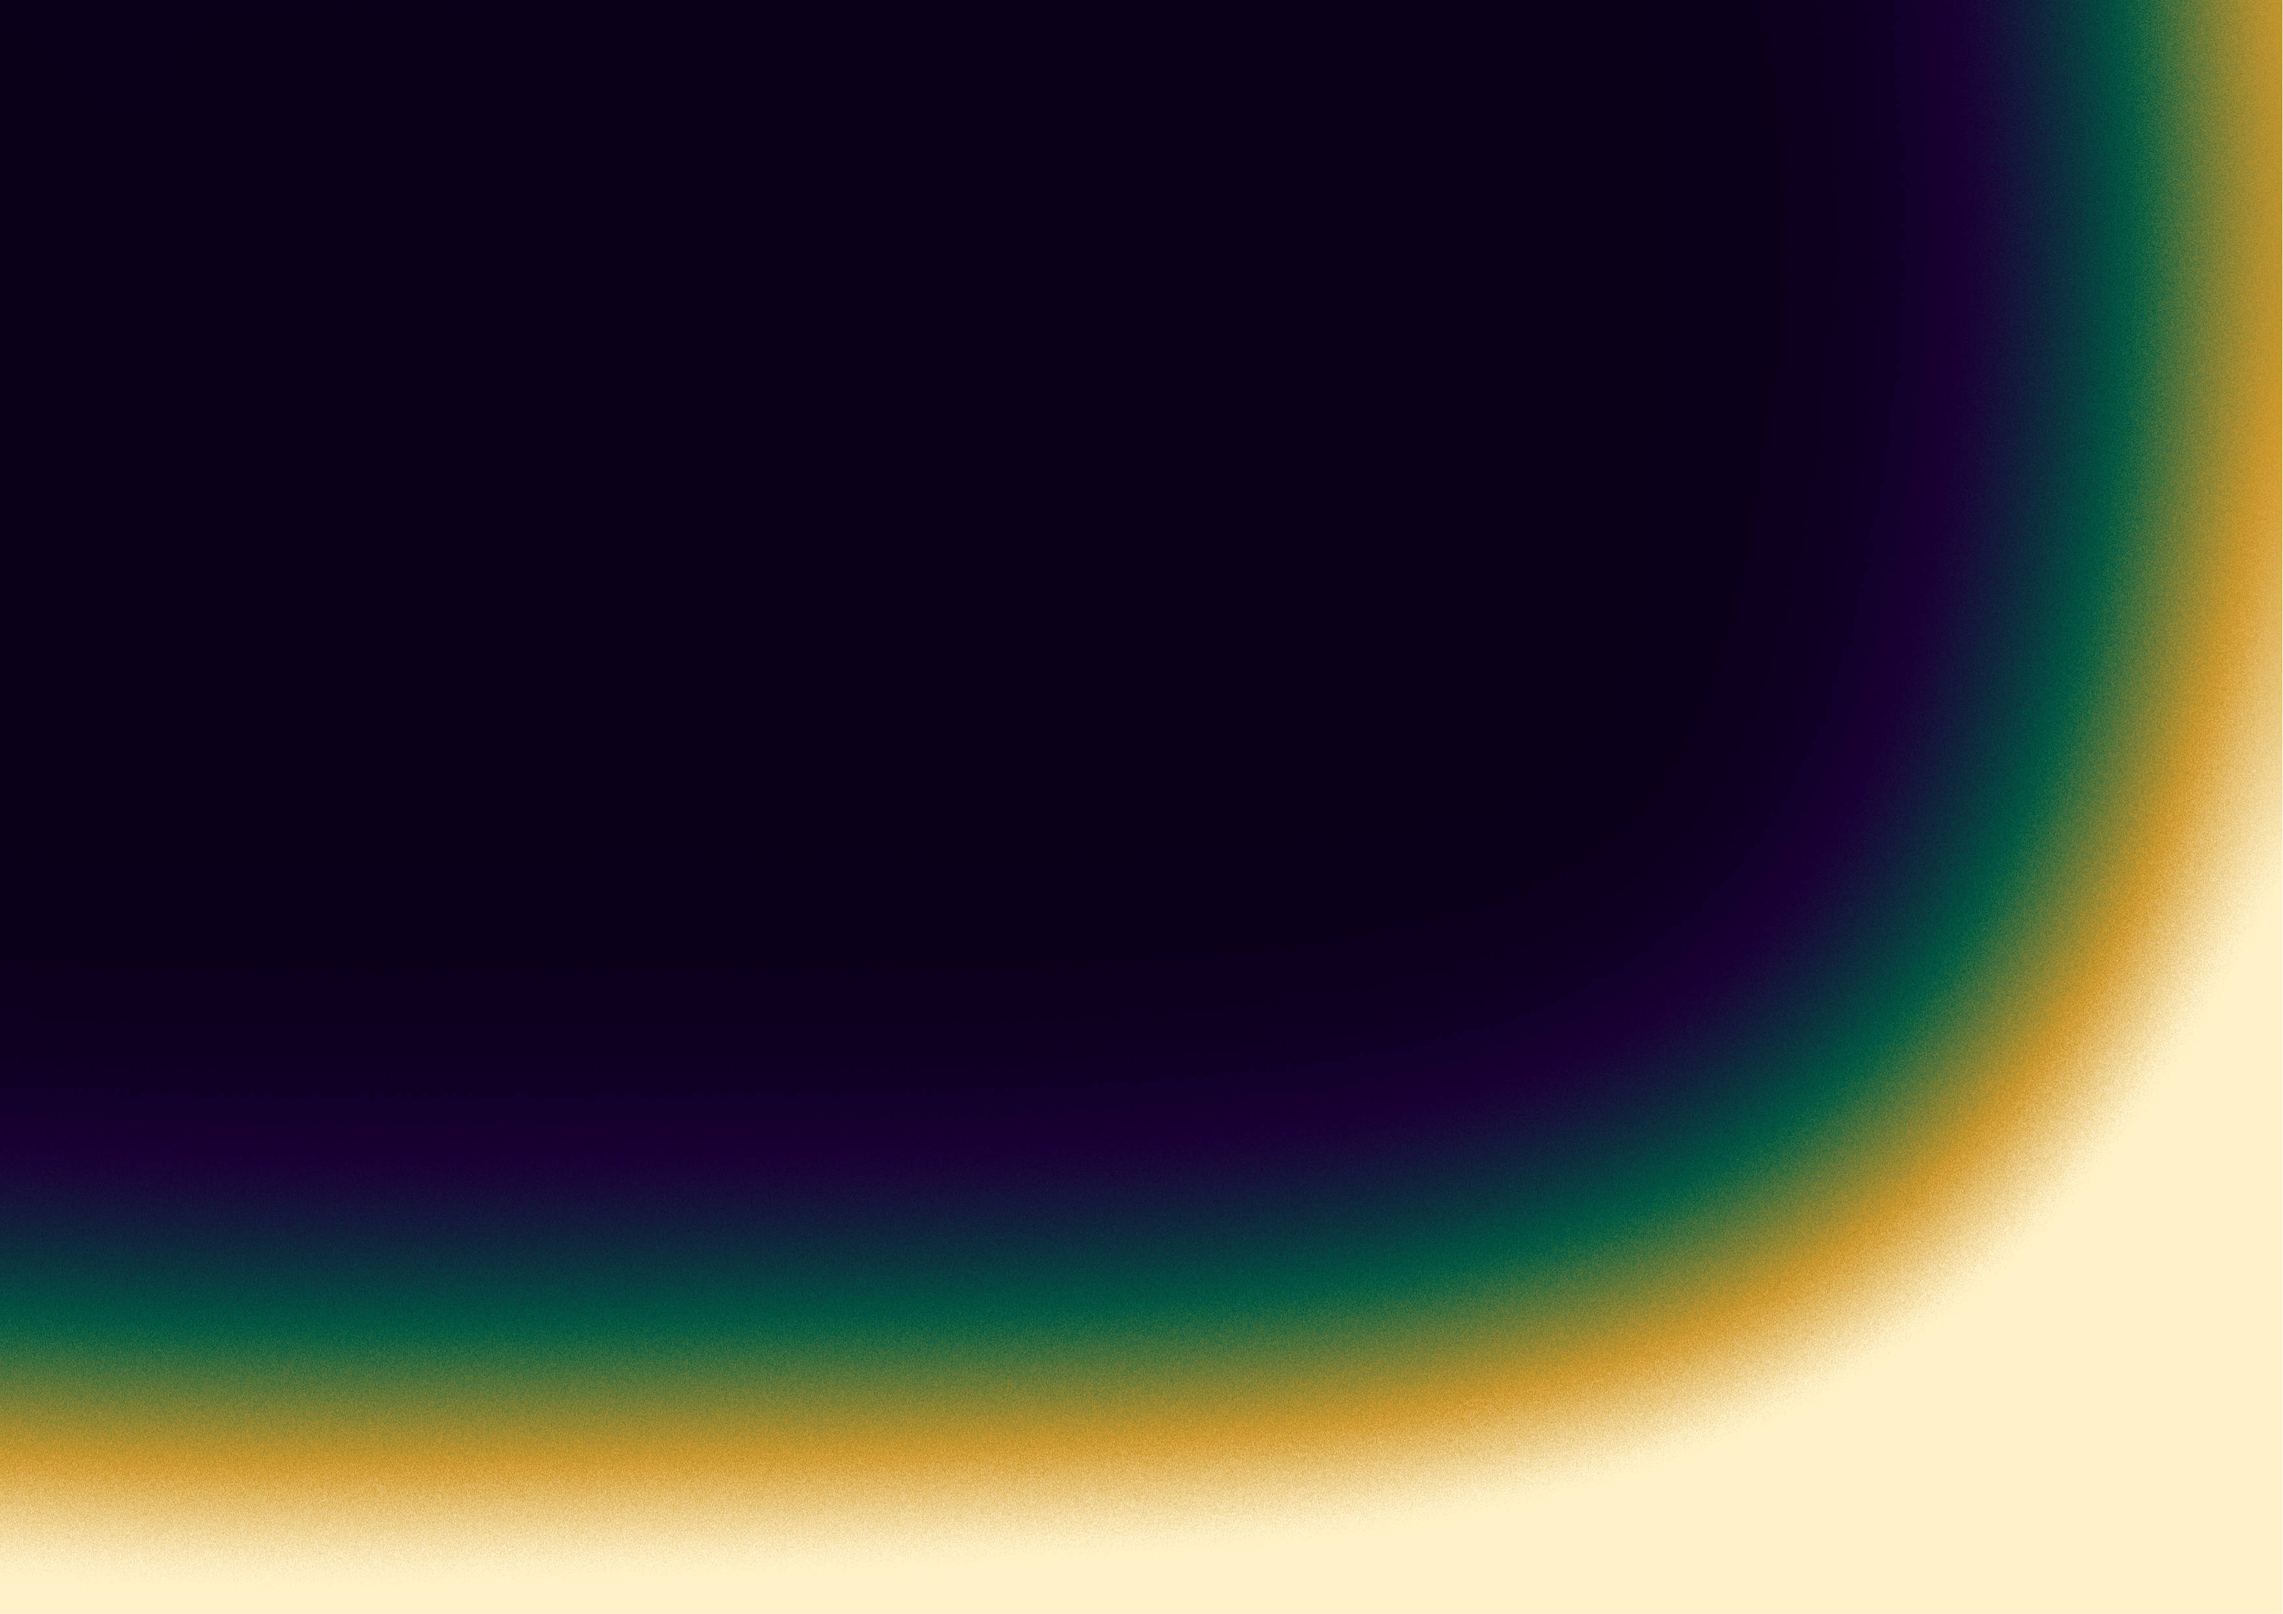
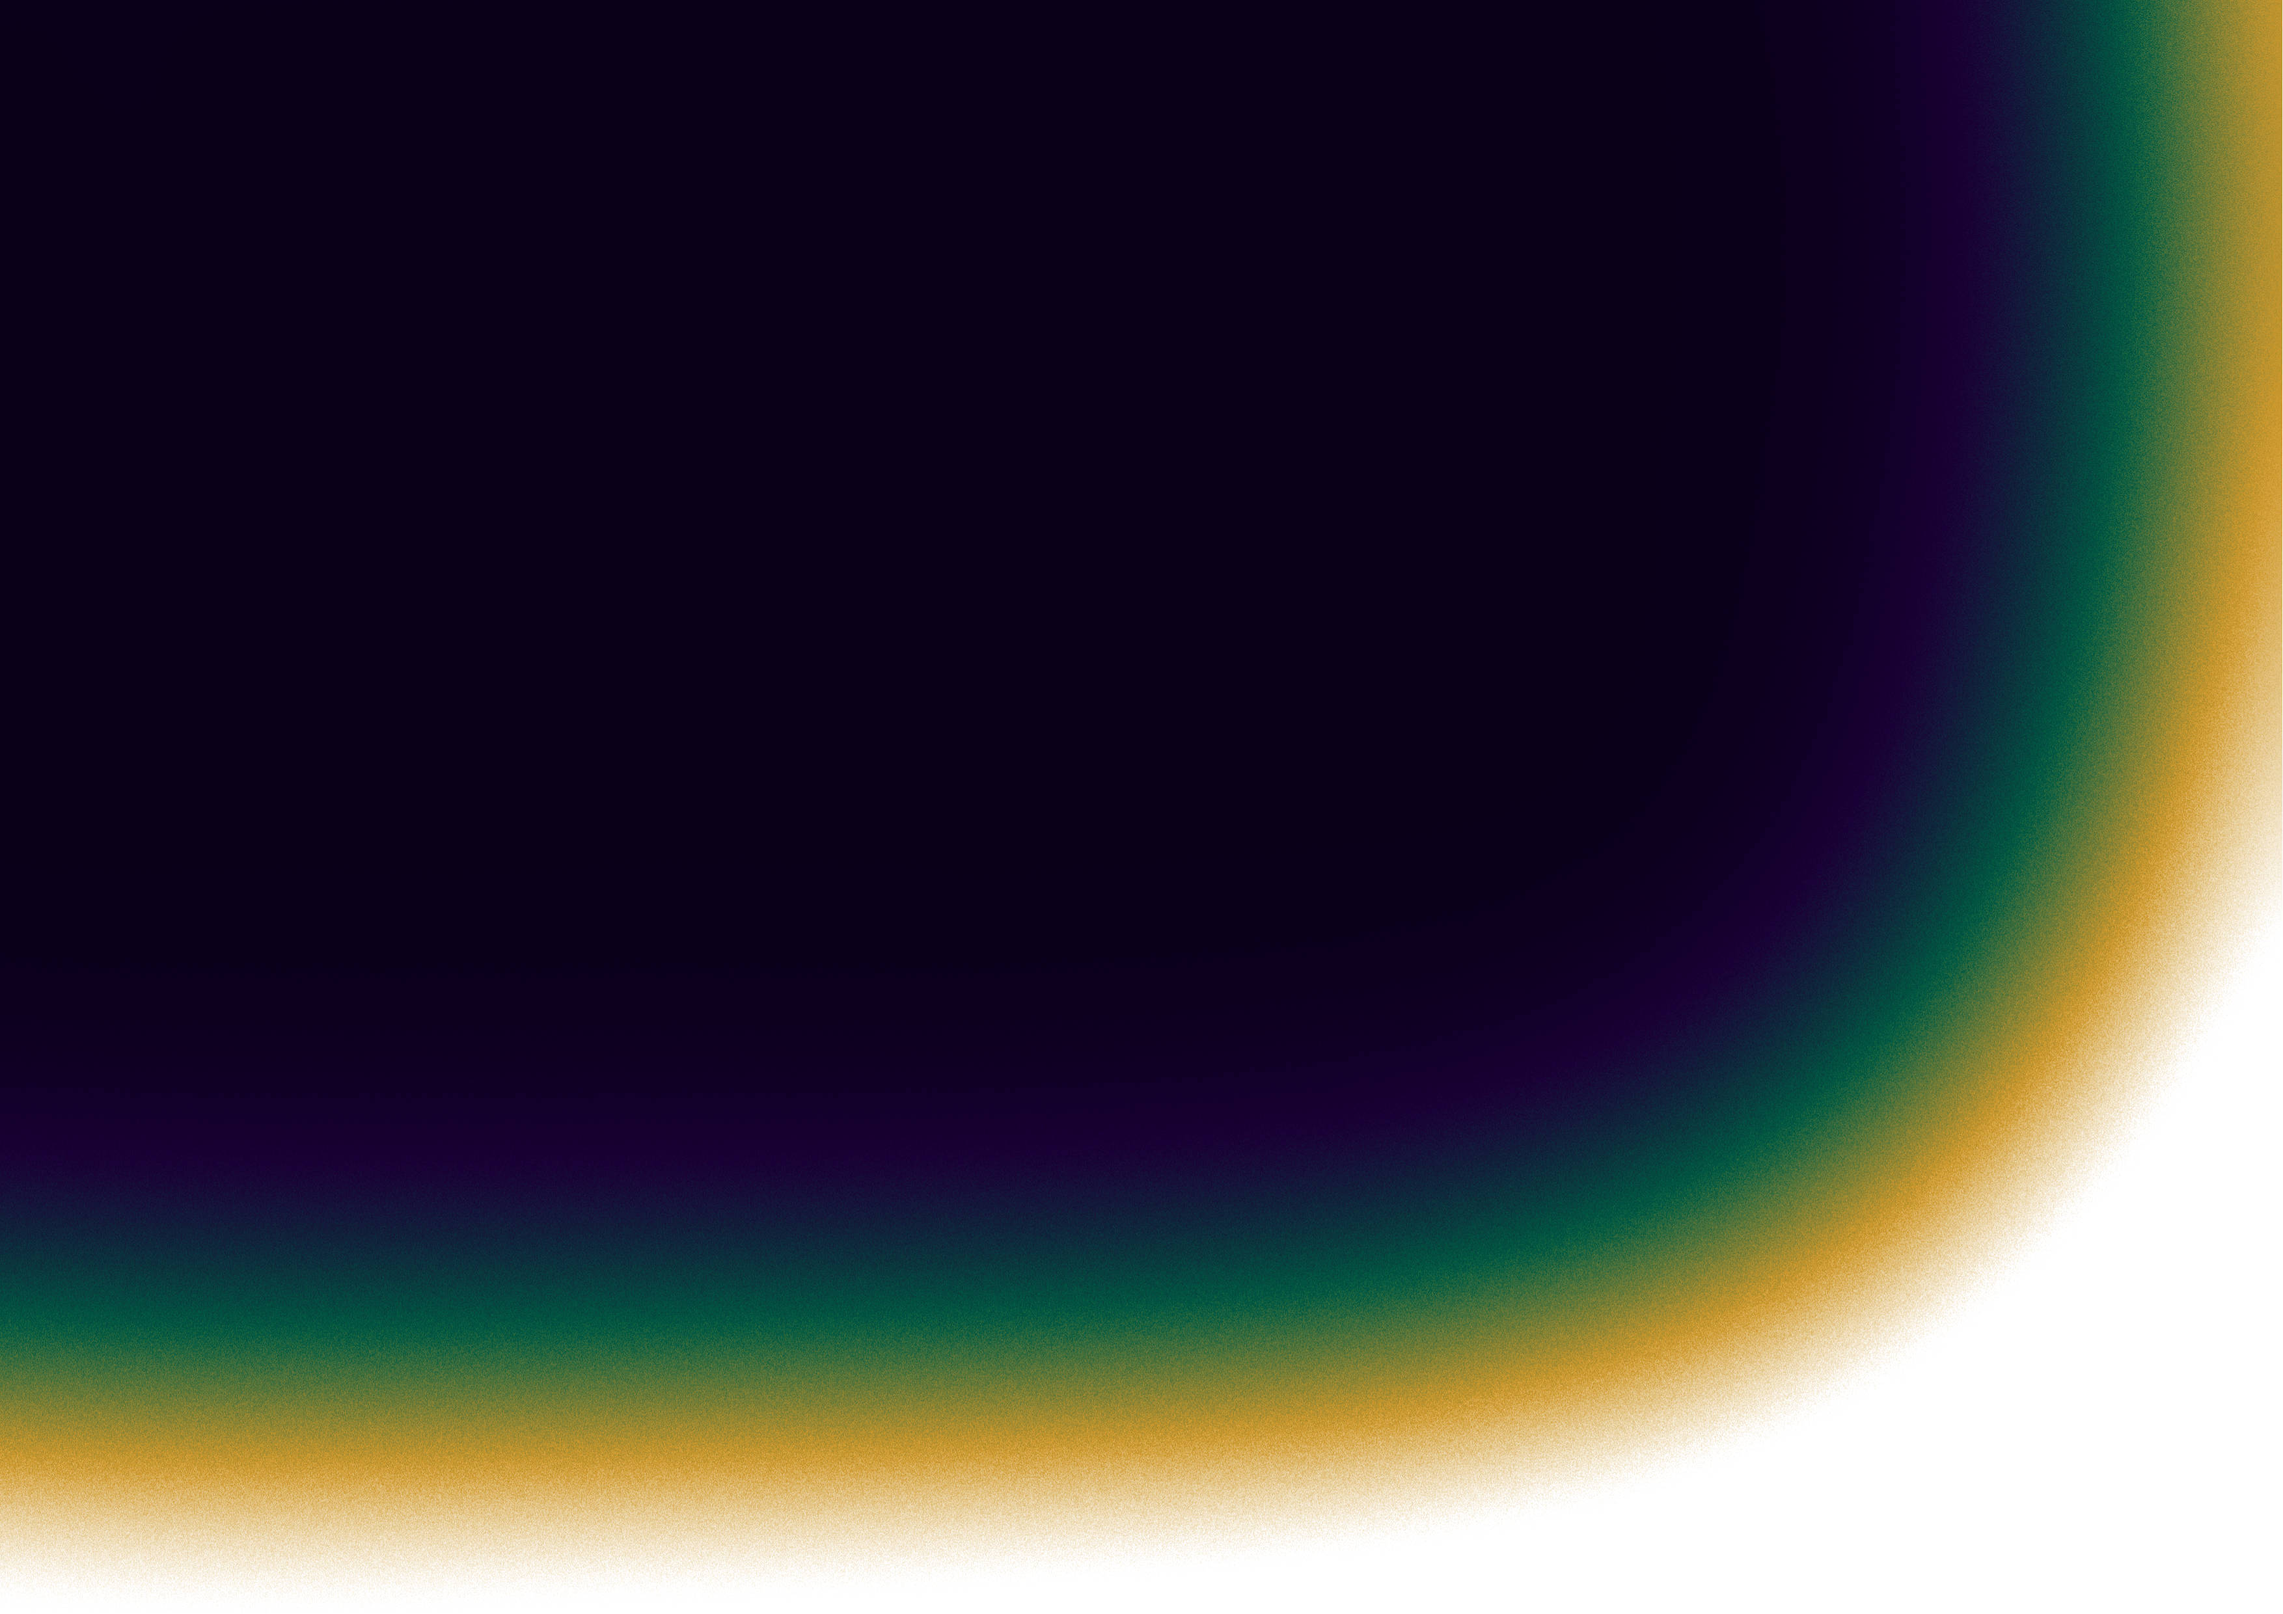
changed background

Changed region(s): [[0.0, 0.4655, 1.0, 1.0]]

diff --git a/css/style_rob.css b/css/style_rob.css
@@ -1,6 +1,6 @@
 
 body {
-    background-color: rgb(255, 241, 200);
+    background-color: rgb(255, 255, 255);
     background-image: url('../img/rob_background.jpg');
     background-size: 100%;
     background-repeat: no-repeat;
